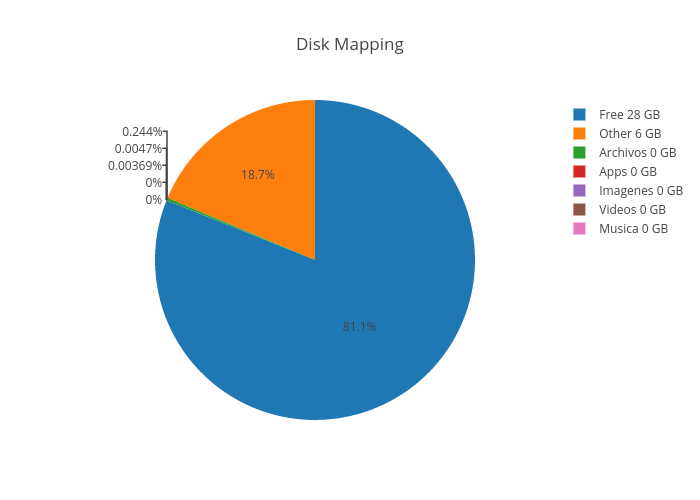
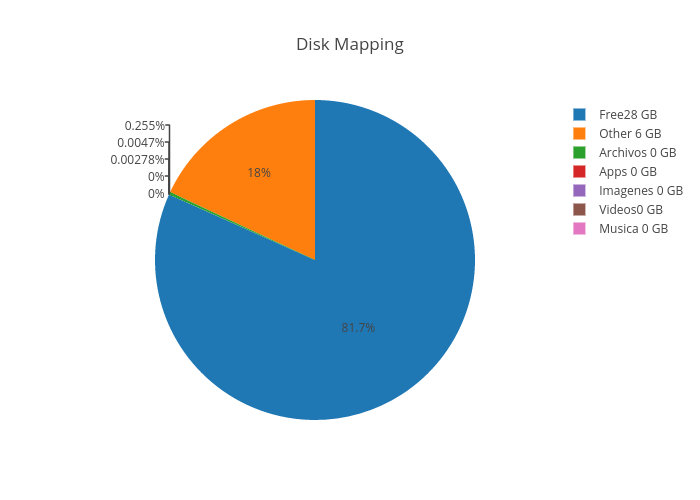
Union

diff --git a/Test_unir.py b/Test_unir.py
@@ -13,8 +13,11 @@ import threading
 import time
 import datetime
 from subprocess import signal
+import plotly.plotly as py
+import plotly.graph_objs as go
+from PIL import Image, ImageTk
 
-
+py.sign_in('pau_1013', '6jnl8o6nbd')
 
 
 
@@ -26,7 +29,7 @@ class VentanaPrincipal(QtGui.QWidget):
     def __init__(self):
         super(VentanaPrincipal, self).__init__()
         self.initUI()
-        #self.setup_Map_Disk_Thread()
+        self.setup_Map_Disk_Thread()
 
         self.setup_Save_Thread=Background_Save_Thread()
         self.setup_Save_Thread.start()
@@ -95,7 +98,7 @@ class VentanaPrincipal(QtGui.QWidget):
         btnGrafMem.clicked.connect(self.ordenar_mem)
         btnGrafCPU.clicked.connect(self.ordenar_cpu)
         btnOrden.clicked.connect(self.ordenar_pid)
-
+        self.btnEliminar.clicked.connect(self.Eliminar)
 
 
 
@@ -167,7 +170,7 @@ class VentanaPrincipal(QtGui.QWidget):
         print("Row %d and Column %d was clicked" % (row, column))
         self.pidSelec = self.table.item(row,3).text()
         self.pidSelec=int(self.pidSelec)
-        print("PID: "+ self.pidSelec)
+        print("PID: "+ str(self.pidSelec))
 
 
     # --------------------Boton presionado con thread-----------------------
@@ -200,6 +203,18 @@ class VentanaPrincipal(QtGui.QWidget):
 
     # --------------------Map Disk Button----------------------
 
+    def setup_Map_Disk_Thread(self):
+        self.thread_MapDisk = QtCore.QThread()
+        self.worker_MapDisk = Map_Disk_worker()
+
+        self.worker_MapDisk.moveToThread(self.thread_MapDisk)
+
+        self.btnMapDisk.clicked.connect(self.worker_MapDisk.Map_Disk)
+        self.worker_MapDisk.wait_for_input.connect(self.enableButton)
+        self.worker_MapDisk.done.connect(self.done)
+
+        self.thread_MapDisk.start()
+
     # --------------------Map Disk Button----------------------
     def ordenar_mem(self):
         Lista.PID=False
@@ -216,7 +231,13 @@ class VentanaPrincipal(QtGui.QWidget):
         Lista.MEM=False
         Lista.CPU=False
 
-<<<<<<< HEAD
+    def Eliminar(self):
+        try:
+            os.kill(self.pidSelec, signal.SIGKILL)
+        except:
+            pass
+        self.pidSelec=None
+
 
 
 # --------------------Map Disk ----------------------
@@ -224,11 +245,100 @@ class Map_Disk_worker(QtCore.QObject):
     wait_for_input=QtCore.pyqtSignal()
     done=QtCore.pyqtSignal()
 
+    def Map_Disk(self):
+        lista = []
+        cont = 0
+        # print("Apps: ")
+        cont = self.get_app()
+        lista.append(cont)
+        cont = 0
+
+        # print('Archivos: ')
+        mapa = ["*.doc", "*.txt", "*.xml", "*.exc", "*.pdf", "*.dochtml", "*.dic", "*.idx", "*.rtf", "*.wri", "*.wtx",
+                "*.log", "*.zip", "*.rar", "*.zoo", "*.tgz", "*.tar", "*.uu", "*.xxe", "*.r0", "*.tbz2", "*.avi",
+                "*.iso", "*.arj", "*.lha", ".*r00", "*.r01", '*.sh', "*.os", '*.o', '*.py']
+        cont = self.get_mapa(mapa)
+        lista.append(cont)
+        cont = 0
+
+        # print("Imagenes: ")
+        mapa = ["*.png", "*.jpg", "*.jpeg", "*.gif", "*.bmp", "*.dib", "*.tif", "*.bw", "*.cdr", "*.cgm", "*.gih",
+                "*.ico", "*.iff", "*.cpt", "*.mac", "*.pic", "*.pict", "*.pntg", "*.psd", "*.pix", "*.img"]
+        cont = self.get_mapa(mapa)
+        lista.append(cont)
+        cont = 0
+
+        # print("Videos: ")
+        mapa = ["*.avi", "*.mov", "*.wmv", "*.mng", "*.qt", "*.dvd", "*.movie", "*.mpeg", "*.mpa", "*.mpv2", "*.divx",
+                "*.div", "*.mp2v", "*.bik"]
+        cont = self.get_mapa(mapa)
+        lista.append(cont)
+        cont = 0
+
+        # print("Musica: ")
+        mapa = ["*.mp3", "*.au", "*.wav", "*.mid", "*.aiff", "*.it"]
+        cont = self.get_mapa(mapa)
+        lista.append(cont)
+        cont = 0
+
+        for i in range(len(lista)):
+            cont = cont + lista[i]
+        d_usage = list(psutil.disk_usage('/'))
+
+        total = (d_usage[0])
+
+        free = (d_usage[2])
+
+        print total
+
+        other = total - free - cont
+        lista.append(other)
+        lista.append(free)
+
+        print("Apps: " + str(lista[0]))
+        print("Archivos: " + str(lista[1]))
+        print("Imagenes: " + str(lista[2]))
+        print("Videos: " + str(lista[3]))
+        print("Musica: " + str(lista[4]))
+
+        print(lista)
+
+        Labels = ['Apps ' + str(lista[0] / 1073741824) + ' GB', 'Archivos ' + str(lista[1] / 1073741824) + ' GB',
+                  'Imagenes ' + str(lista[2] / 1073741824) + ' GB', 'Videos' + str(lista[3] / 1073741824) + ' GB',
+                  'Musica ' + str(lista[4] / 1073741824) + ' GB',
+                  'Other ' + str(lista[5] / 1073741824) + ' GB', 'Free' + str(lista[6] / 1073741824) + ' GB']
+        fig = {
+            'data': [{'labels': Labels,
+                      'values': lista,
+                      'type': 'pie'}],
+            'layout': {'title': 'Disk Mapping'}
+        }
+        py.image.save_as(fig, 'Map_Disk.png')
+        img=Image.open("Map_Disk.png")
+        img.show()
+
+
+        #py.plot(fig)
+
+    def get_mapa(self,m):
+        cont = 0
+        for root, dirnames, filenames in os.walk(raiz):
+            for extension in m:
+                for filename in fnmatch.filter(filenames, extension):
+                    cont = cont + os.stat(os.path.join(root, filename)).st_size
+        return cont
+
+    def get_app(self):
+        cont = 0
+        for root, dirnames, filenames in os.walk(raiz):
+            for filename in filenames:
+                if os.access(os.path.join(root,filename),os.X_OK) is True:
+                    cont = cont + os.stat(os.path.join(root, filename)).st_size
+        return cont
 
     
 
-=======
->>>>>>> 6f6b88103c4a7835f0a305dceab0e9d23a887fa4
+
 # --------------------Map Disk ----------------------
 
 # --------------------Map Disk ----------------------
@@ -663,6 +773,7 @@ def main():
 
 if __name__ == '__main__':
     Lista = Crear_Lista()
+    #Lista=Lista()
     Lista.PID=True
     Lista.Ordenar(Lista.PID,Lista.CPU,Lista.MEM)
     Lista.imprimir()
